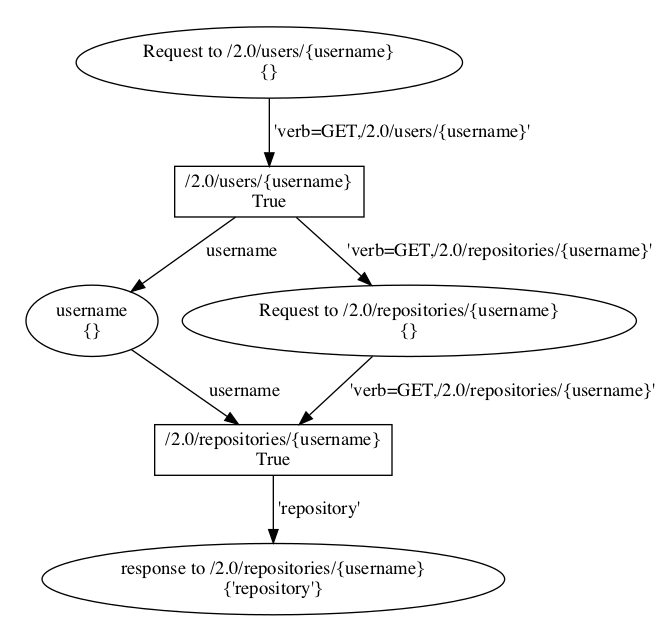
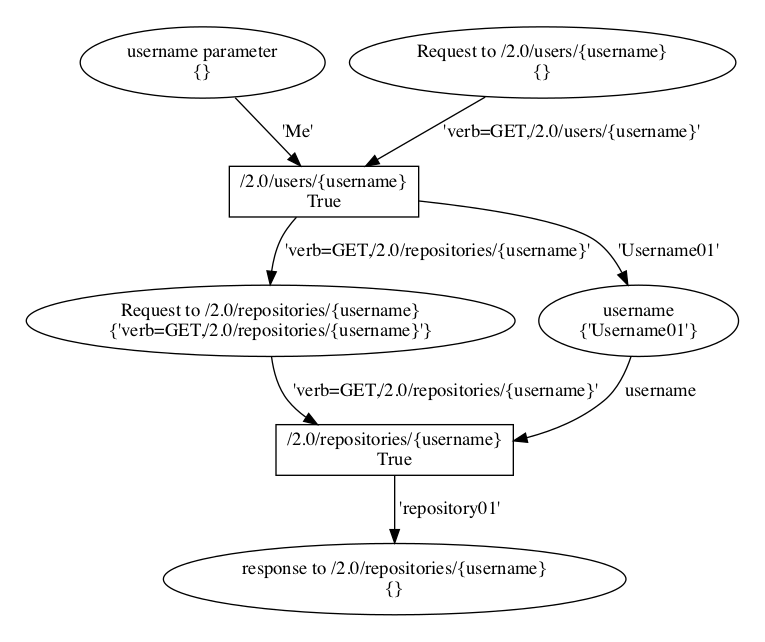
feat: create new example in a interative way

diff --git a/snakes_link_example-02.py b/snakes_link_example-02.py
@@ -2,6 +2,10 @@ import snakes.plugins
 snakes.plugins.load("gv", "snakes.nets", "nets")
 from nets import *
 
+##
+## Interative version and using Values in Producer
+##
+
 # producer
 # GET_verb = "verb=GET,"
 producer_verb = "GET"
@@ -14,7 +18,8 @@ producer_uri_key = f"uri={producer_uri}"
 producer_request = f"Request to {producer_uri}"
 # vehicles_response = "uuid"
 producer_response = "username"
-producer_parameter = "username paramter"
+producer_parameter = "username parameter"
+producer_username_parameter = 'Me'
 
 # consumer
 consumer_verb = "GET"
@@ -68,20 +73,65 @@ def factory (cons, prod, init_producer_request=[], init_producer_parameter=[]) :
 # python3 snakes_crAPI-01.py
 def main():
     # create the petri net
-    net, transitions = factory(Variable("username"), Value("repository"), producer_verb_key+producer_uri, "Username01")
-    net.draw("value-0.png")
-    import ipdb; ipdb.set_trace()
+    net = PetriNet("N")
+    transitions = []
 
-    # given the request-response "/2.0/users/{username}"
+    ## 1. we receive the request and the response to /2.0/users/{username}
+    # request to the producer
+    net.add_place(Place(producer_request, producer_verb_key+producer_uri))
+    # parameter to the producer
+    net.add_place(Place(producer_parameter, producer_username_parameter))
+
+    t0 = Transition(producer_uri)
+    transitions.append(t0)
+    net.add_transition(t0)
+
+    # response
+    # username obtained from consumer
+    net.add_place(Place(producer_response, []))
+    # request to the consumer
+    net.add_place(Place(consumer_request, []))
+
+    # connections
+    net.add_input(producer_request, producer_uri, Value(producer_verb_key + producer_uri))
+    net.add_input(producer_parameter, producer_uri, Value(producer_username_parameter))
+    net.add_output(consumer_request, producer_uri, Value(producer_verb_key+consumer_uri))
+    net.add_output(producer_response, producer_uri, Value("Username01"))
+
+    # draw
+    net.draw("value-0.png")
+    import ipdb;
+    ipdb.set_trace()
+
+    # fire transition
     transitions[0].fire(Substitution(username="Username01"))
     net.draw("value-1.png")
 
-    # given the request-response "/2.0/users/{username}"
+    ## 2. we receive the request and the response to /2.0/repositories/{username}
+    # /2.0/repositories/{username}
+    net.add_place(Place(consumer_response, []))
+    t1 = Transition(consumer_uri)
+    net.add_transition(t1)
+    transitions.append(t1)
+
+    # connections
+    net.add_input(consumer_request, consumer_uri, Value(consumer_verb_key + consumer_uri))
+    net.add_input(producer_response, consumer_uri, Variable("username"))
+    net.add_output(consumer_response, consumer_uri, Value("repository01"))
+
+    # draw
+    net.draw("value-2.png")
+    import ipdb;
+    ipdb.set_trace()
+
+    # fire transition
     try:
-        transitions[1].fire(Substitution(username="Username99"))
+        #transitions[1].fire(Substitution(username="Username99"))
+        transitions[1].fire(Substitution(username="Username01"))
     except:
         print("IDOR Attack Detected")
-    net.draw("value-2.png")
+
+    net.draw("value-3.png")
 
 if __name__ == "__main__":
     main()
